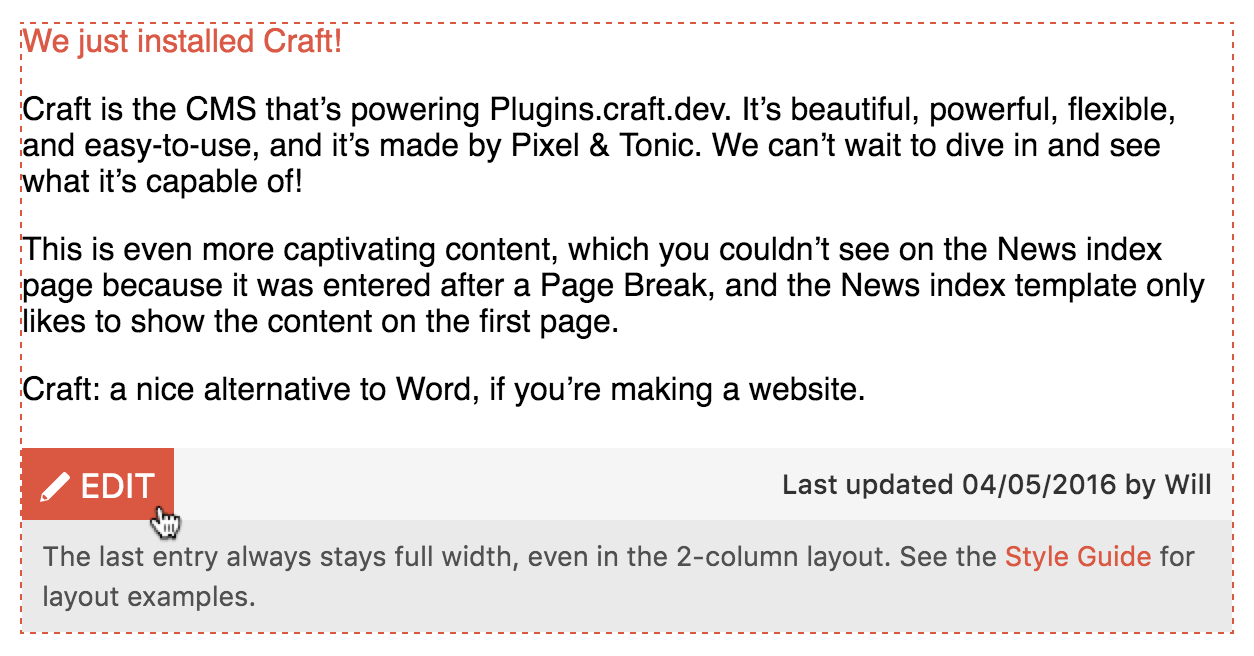
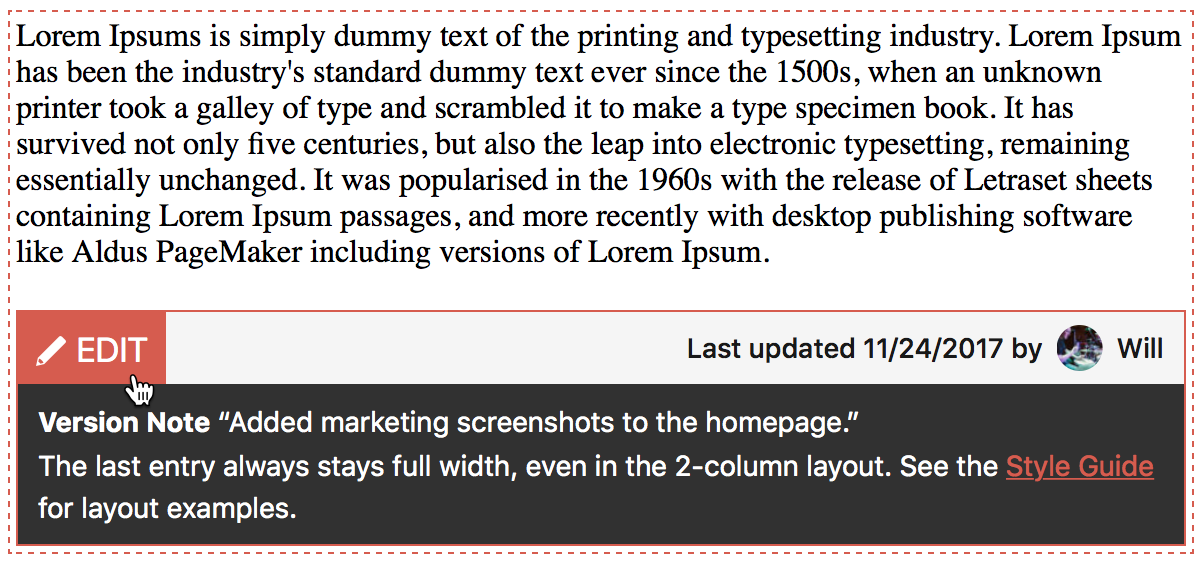
updated readme screenshots

diff --git a/README.md b/README.md
@@ -78,7 +78,7 @@ You can also add developer notes to content editors, or pass along other argumen
   devNote: myNote,
 }) }}
 ```
-![Screenshot](resources/screenshots/screenshot-edit-hover.png)
+![Screenshot](resources/screenshots/screenshot-edit-note.png)
 
 Here is a full list of available arguments:
 
